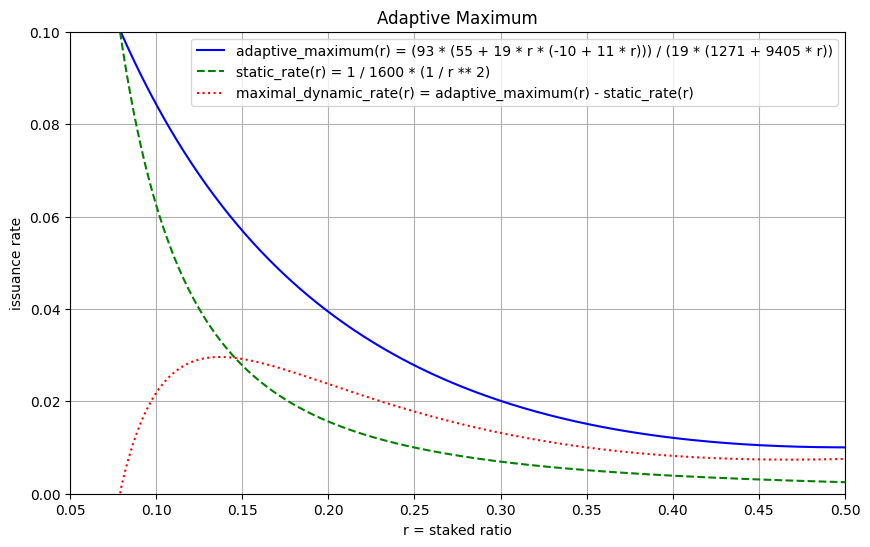
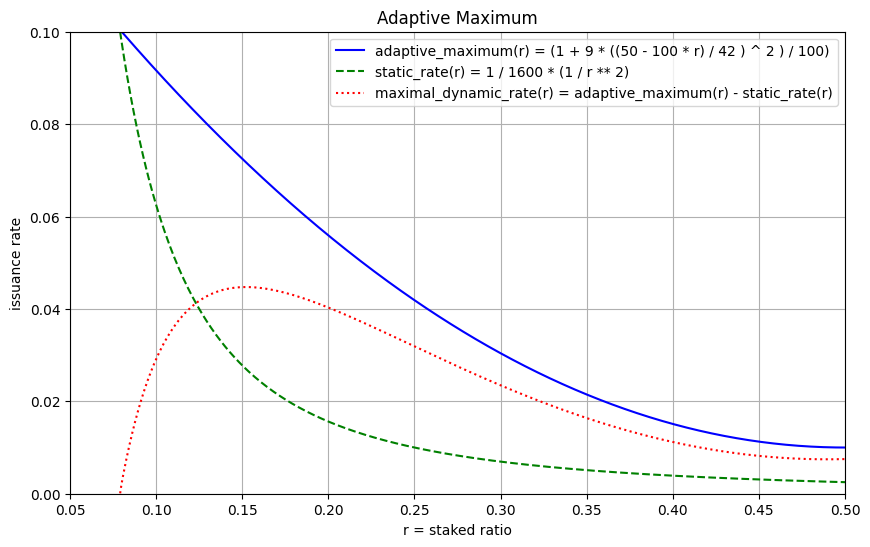
Beta: update doc

diff --git a/docs/beta/adaptive_issuance.rst b/docs/beta/adaptive_issuance.rst
@@ -246,10 +246,10 @@ overridden by the minimum issuance, as discussed below.
      - 50% and above
    * - Adaptive maximum issuance (approx.)
      - 10%
-     - 8.4%
-     - 3.9%
-     - 2%
-     - 1.2%
+     - 9.2%
+     - 5.6%
+     - 3%
+     - 1.5%
      - 1%
 
 The function that defines the adaptive maximum is:
@@ -261,7 +261,7 @@ The function that defines the adaptive maximum is:
       return 0.01
     elif r <= 0.05:
       return 0.1
-    y = (5115 - 17670 * r + 19437 * (r ** 2)) / (24149 + 178695 * r)
+    y = (1 + 9 * ((50 - 100 * r) / 42 ) ** 2 ) / 100
     if y > 0.1:
       return 0.1
     elif y < 0.01:
